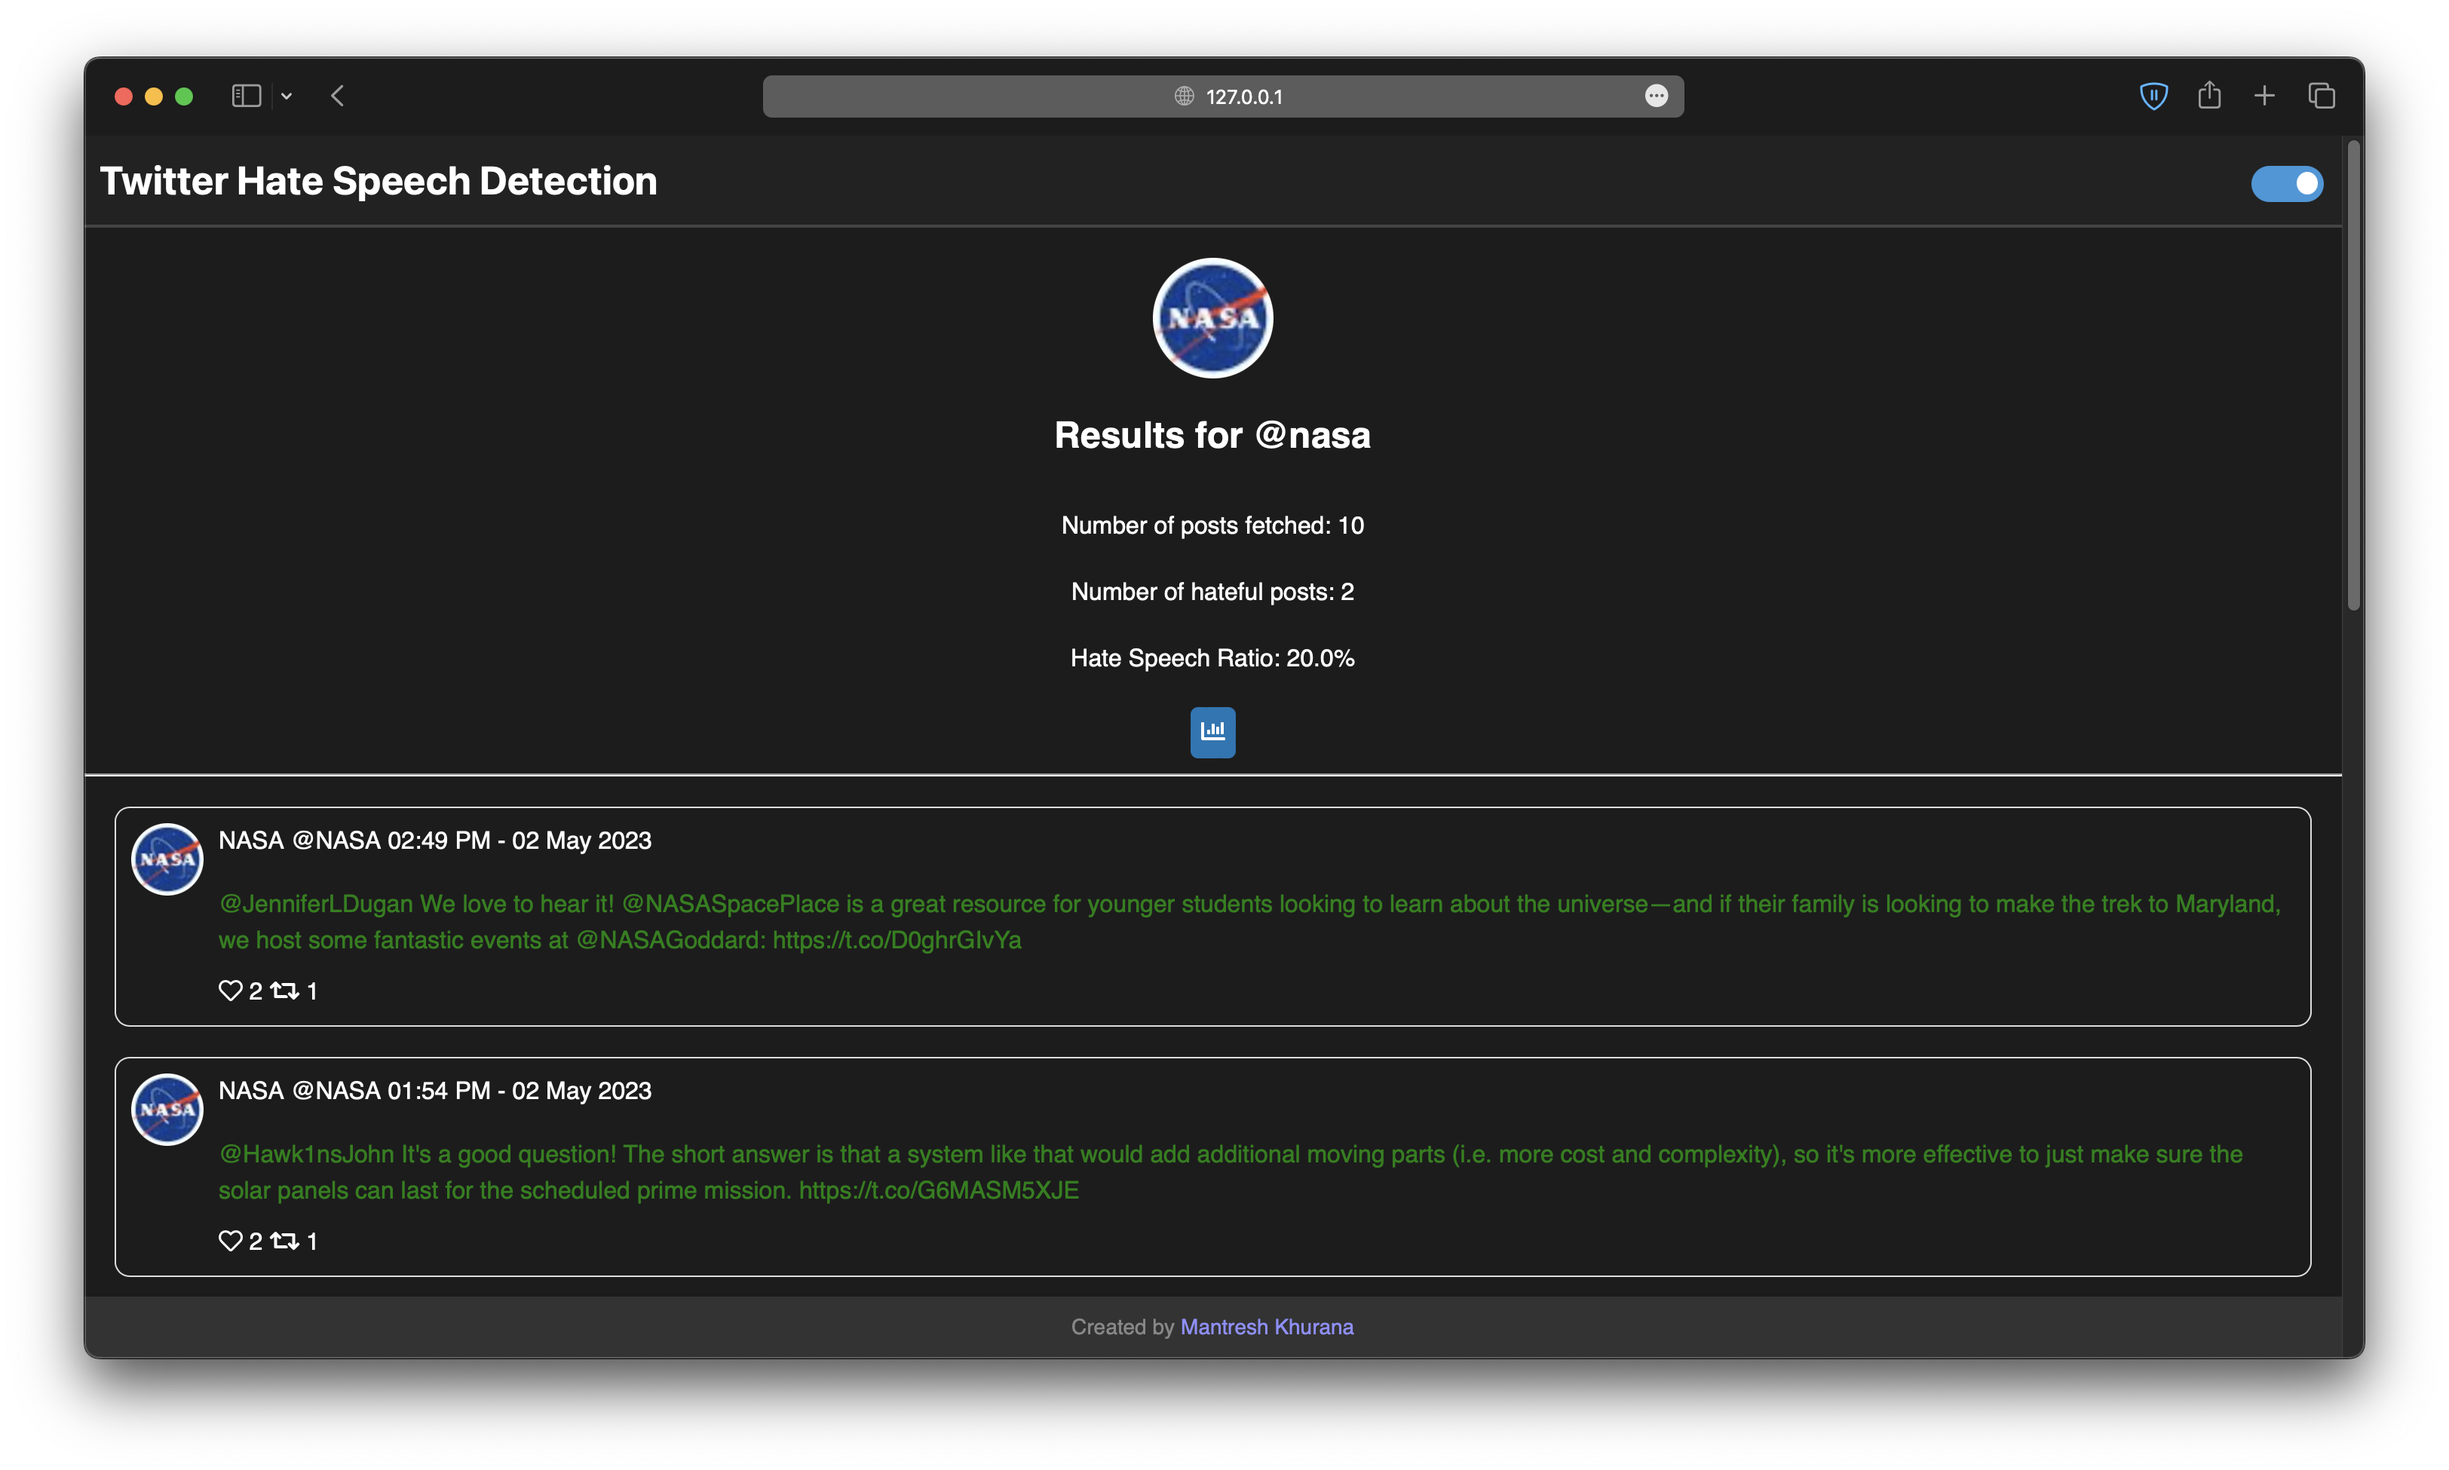
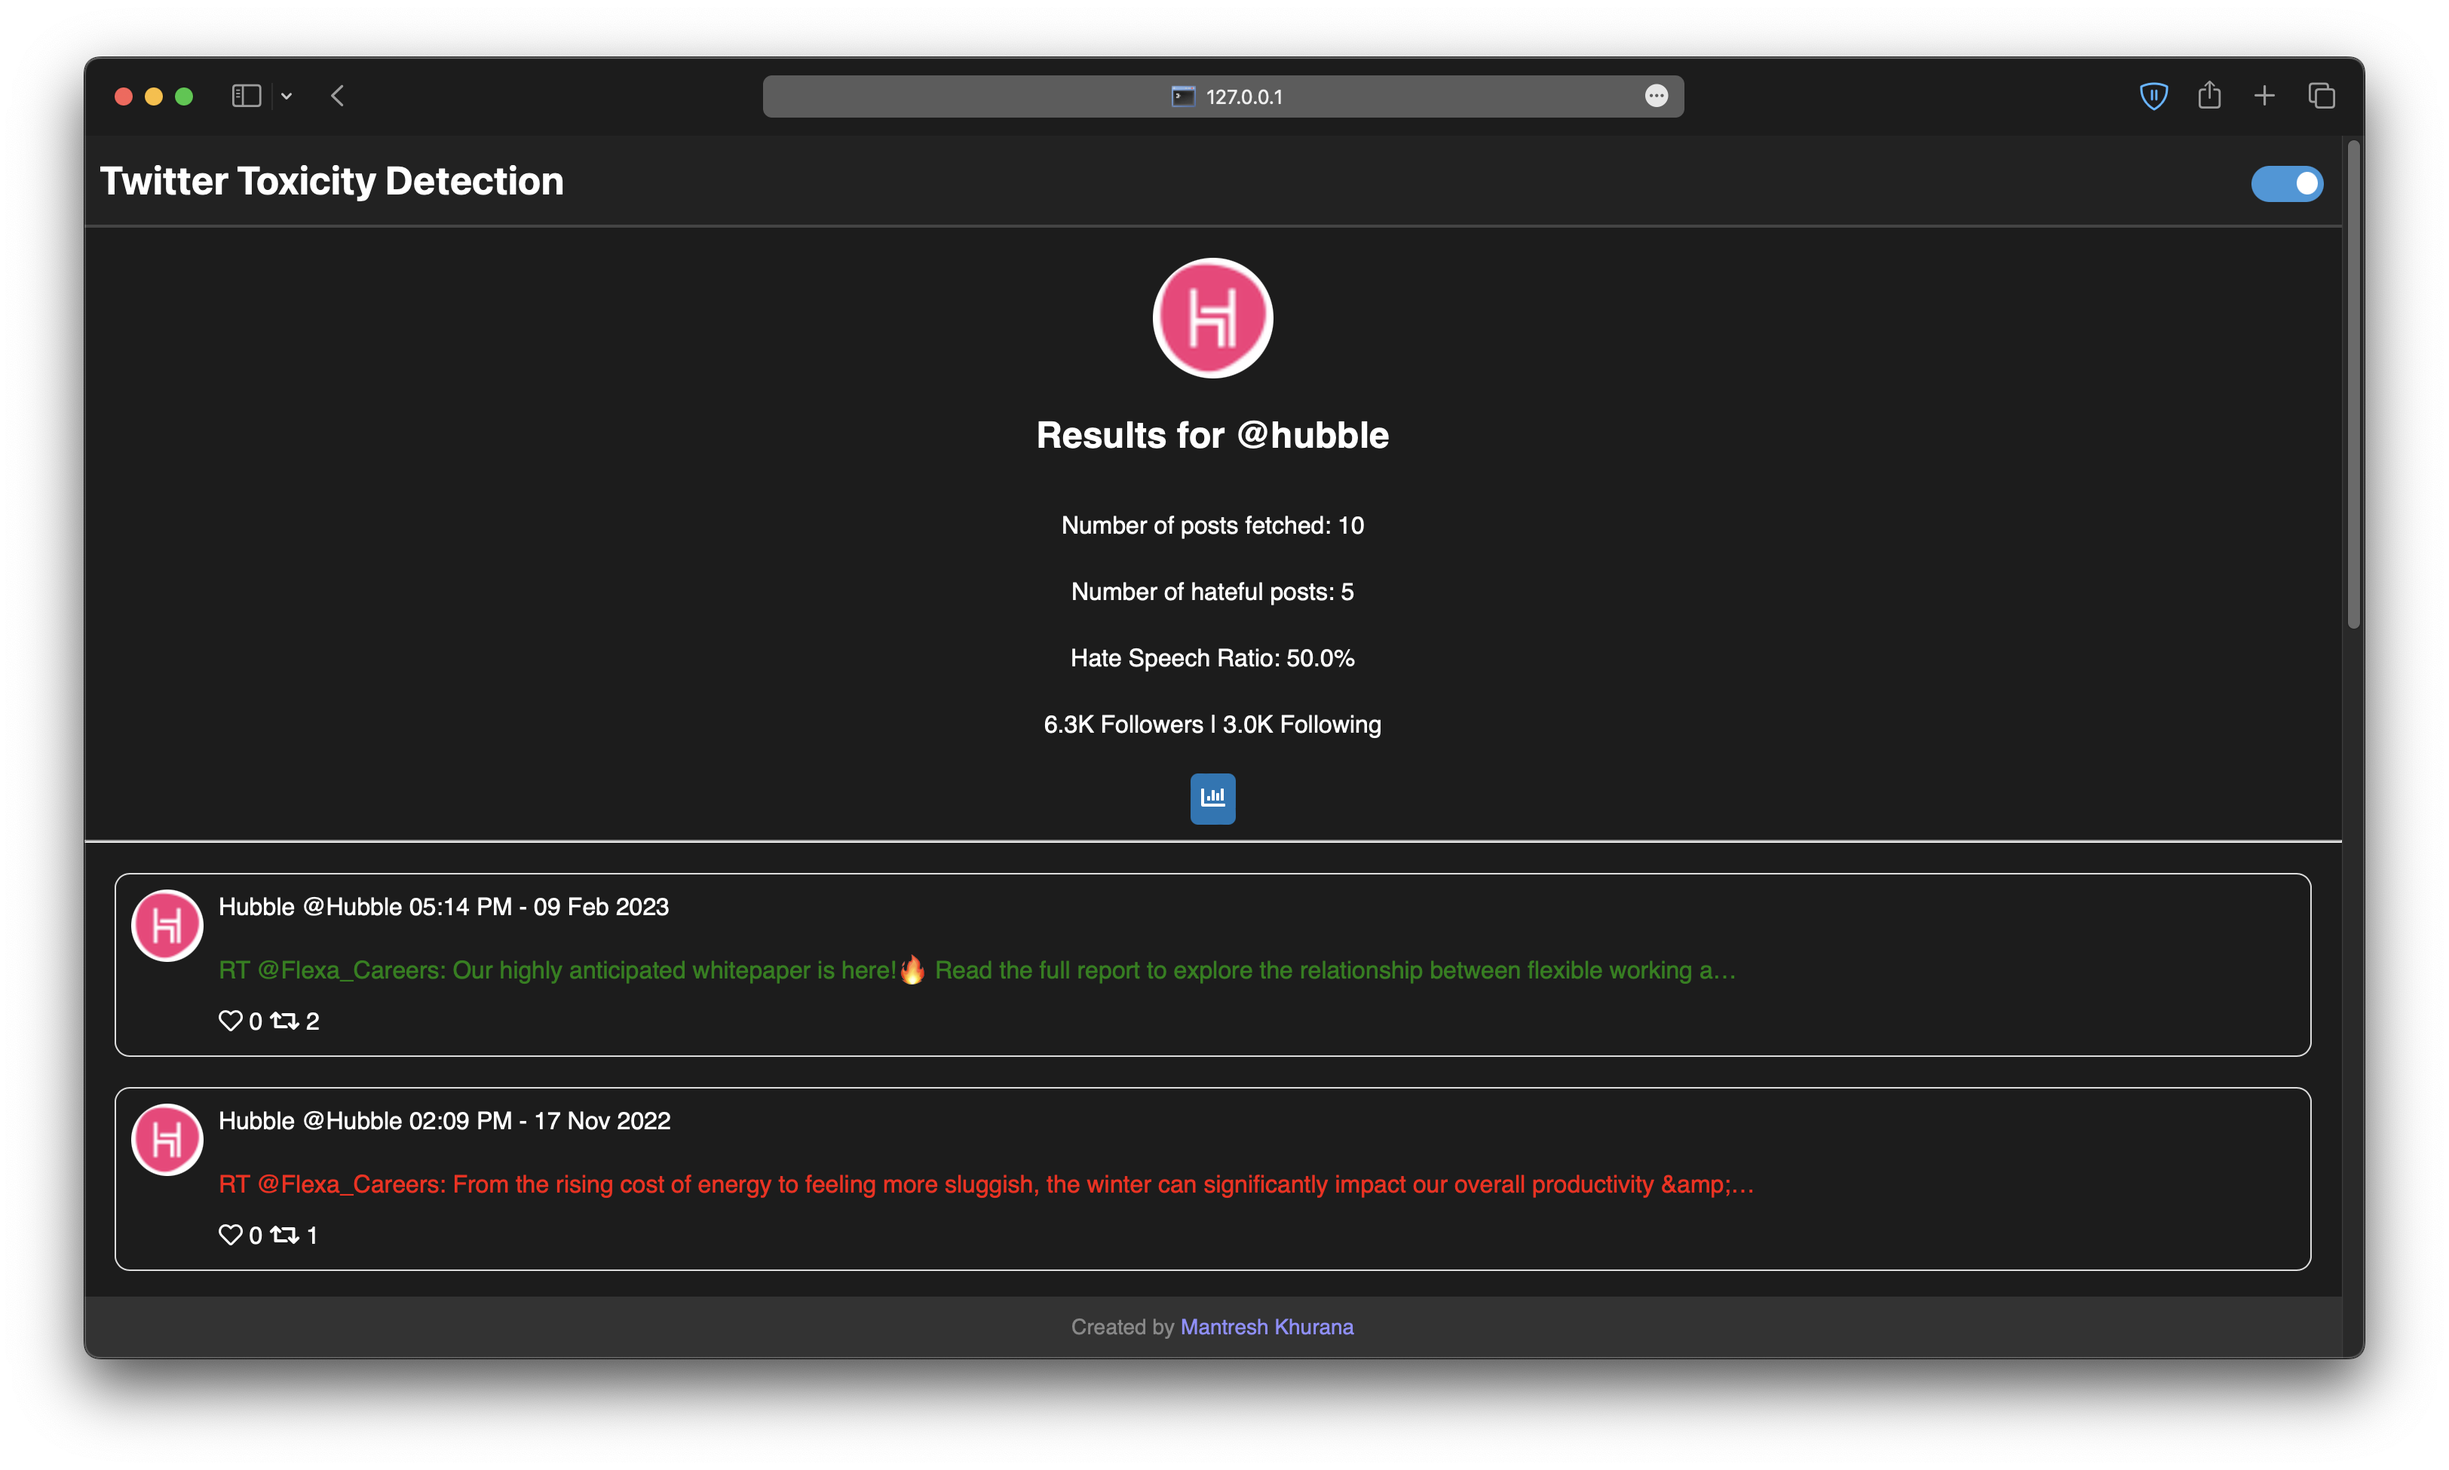
Followers & Following Count Added.

diff --git a/templates/results.html b/templates/results.html
@@ -1,7 +1,7 @@
 <!DOCTYPE html>
 <html>
   <head>
-    <title>Twitter Hate Speech Detection - Results</title>
+    <title>Twitter Toxicity Detection - Results</title>
     <link
       rel="stylesheet"
       href="{{ url_for('static', filename='css/style.css') }}"
@@ -14,7 +14,7 @@
   </head>
   <body class="light">
     <header>
-      <a href="/"><h1>Twitter Hate Speech Detection</h1></a>
+      <a href="/"><h1>Twitter Toxicity Detection</h1></a>
       <div class="toggle-switch">
         <input type="checkbox" id="toggle" />
         <label for="toggle"></label>
@@ -34,6 +34,7 @@
       <p>Number of posts fetched: {{ num_total }}</p>
       <p>Number of hateful posts: {{ num_hateful }}</p>
       <p>Hate Speech Ratio: {{ hate_speech_ratio }}%</p>
+      <p>{{ followers_count }} Followers | {{ following_count }} Following</p>
       <div class="chart-button">
         <a href="#"><i class="fas fa-chart-bar"></i></a>
       </div>

diff --git a/templates/index.html b/templates/index.html
@@ -1,7 +1,7 @@
 <!DOCTYPE html>
 <html>
   <head>
-    <title>Twitter Hate Speech Detection</title>
+    <title>Twitter Toxicity Detection</title>
     <link rel="shortcut icon" href="{{ url_for('static', filename='images/favicon.ico') }}">
     <link
       rel="stylesheet"
@@ -10,7 +10,7 @@
   </head>
   <body class="light">
     <header>
-      <a href="/"><h1>Twitter Hate Speech Detection</h1></a>
+      <a href="/"><h1>Twitter Toxicity Detection</h1></a>
       <div class="toggle-switch">
         <input type="checkbox" id="toggle" />
         <label for="toggle"></label>

diff --git a/app.py b/app.py
@@ -92,12 +92,21 @@ def results():
     num_hateful = sum(labels)
     num_total = len(tweets)
     hate_speech_ratio = num_hateful / num_total * 100
-    
+
     # Compute the average toxicity percentage
     toxicity = sum([model.predict_proba(vectorizer.transform([tweet.full_text]))[0][1] for tweet in tweets]) / num_total
 
+    # Get user's followers and following
+    user = api.get_user(screen_name=username)
+    followers_count = user.followers_count
+    following_count = user.friends_count
+
+    # Convert the counts to K, M, or B format
+    followers_count = format_number(followers_count)
+    following_count = format_number(following_count)
+
     # Render the results template
-    return render_template('results.html', username=username, posts=posts, num_total=num_total, num_hateful=num_hateful, hate_speech_ratio=hate_speech_ratio, tweets=tweets, format_number=format_number, is_toxic=is_toxic, toxicity=toxicity)
+    return render_template('results.html', username=username, posts=posts, num_total=num_total, num_hateful=num_hateful, hate_speech_ratio=hate_speech_ratio, tweets=tweets, format_number=format_number, is_toxic=is_toxic, toxicity=toxicity, followers_count=followers_count, following_count=following_count)
 
 if __name__ == '__main__':
     app.run(debug=True)

diff --git a/README.md b/README.md
@@ -20,6 +20,10 @@ This is a Flask web application that allows users to search for a Twitter user's
 | ![App Screenshot](./screenshots/screenshot-1-light.png) | ![App Screenshot](./screenshots/screenshot-1-dark.png)
 | ![App Screenshot](./screenshots/screenshot-2-light.png) | ![App Screenshot](./screenshots/screenshot-2-dark.png)
 
+You can see a pie chart which portrays the percentage of tweets that are toxic and non-toxic. It can be viewed by clicking on the view Pie Chart button. bellow `following` and `followers` count.
+
+<img src="./screenshots/screenshot-3.png" width="300">
+
 ## Installation
 
 You may need to install some dependencies before running the program(some of the modules cannot be installed directly by using `requirements.txt`).
